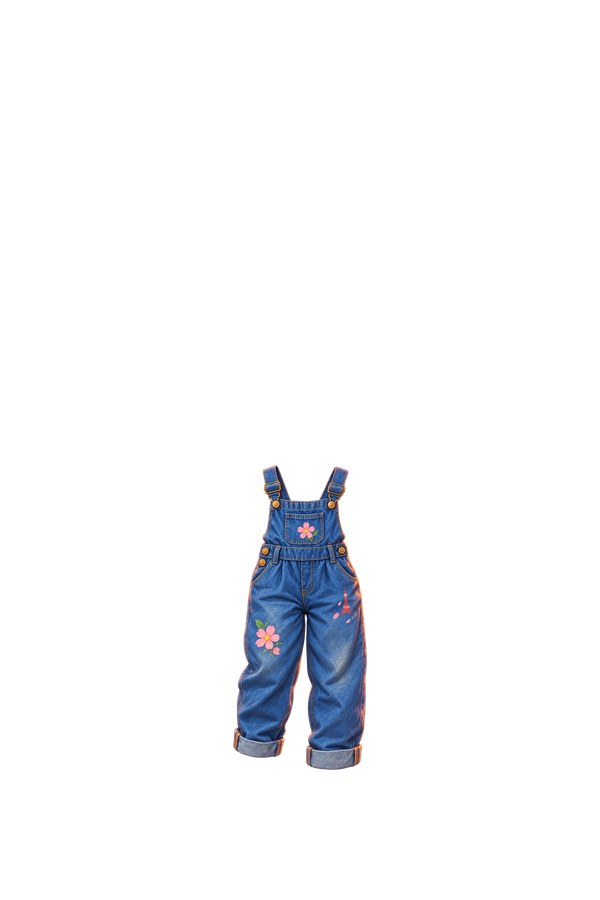
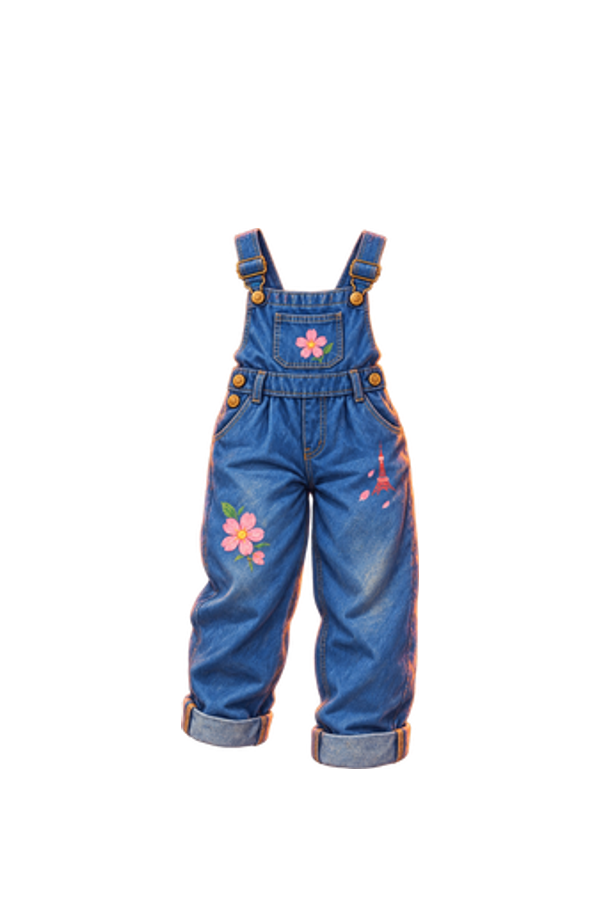
Fix dress/bottom layering, overalls scale, and overalls caption
1. One-piece dresses (purple-button-dress, pink-floral-dress,
   teal-wrap-dress) are now tagged 'covers-bottom'. CatalogDoll skips
   rendering the bottom slot entirely — both the illustrated PNG and
   the SVG fallback — whenever the equipped top has that tag, instead
   of leaving jeans/shoe-cuffs rendering underneath. The bottom pick
   itself is untouched in state, so it's remembered for when the kid
   switches back to a separate top.

2. denim-overalls was generated with slot: 'bottom' (a plain-pants
   box, top=465/height=305), but the art is a full bib overall with
   straps reaching the shoulder — normalizeToClosetCanvas squished the
   whole bib+straps+legs into that short box, so the straps landed at
   rib-cage height instead of the shoulder, visibly poking out from
   under any top. Same bug class as the batch-3 dresses. Rescaled the
   intact art and anchored its top at the shoulder line instead of the
   waist (scripts/fix-overalls-scale.mjs).

3. navy-overalls' art bakes in its own blouse, fully covering
   whatever top is equipped, but the "Now wearing" caption still named
   the hidden top. Tagged it 'includes-top'; the caption now shows the
   bottom's own name whenever the equipped bottom carries that tag, so
   it always matches what's actually visible on the doll.

Changed region(s): [[0.3, 0.2489, 0.72, 0.8711]]

diff --git a/src/LittleJetterApp.tsx b/src/LittleJetterApp.tsx
@@ -272,13 +272,18 @@ const PAINTERLY_BODY_ASSETS: Record<string, string> = {
 };
 
 function CatalogDoll({ destinationId, picks, character, garmentColors }: { destinationId: string; picks: Picks; character: Character; garmentColors: GarmentColors }) {
-  const illustrated = CLOSET_GROUPS.map((group) => ({ group, item: catalogItemFor(destinationId, group, picks[group]) }))
+  const topItem = catalogItemFor(destinationId, 'tops', picks.tops);
+  const coversBottom = topItem?.tags.includes('covers-bottom') ?? false;
+  const illustrated = CLOSET_GROUPS
+    .filter((group) => !(coversBottom && group === 'bottoms'))
+    .map((group) => ({ group, item: catalogItemFor(destinationId, group, picks[group]) }))
     .filter(({ item }) => Boolean(catalogImageFor(item, item ? garmentColors[item.id] : undefined)));
   const headUrl = painterlyHeadUrl(character);
   const bodyUrl = PAINTERLY_BODY_ASSETS[character.skin];
   const hiddenLayers: string[] = (illustrated.map(({ item }) => item?.slot ?? '') as string[])
     .concat(headUrl ? ['face', 'hair'] : [])
-    .concat(bodyUrl ? ['base'] : []);
+    .concat(bodyUrl ? ['base'] : [])
+    .concat(coversBottom ? ['bottom'] : []);
   return <div className="little-catalog-doll" data-template={catalog.template.id}>
     <ClassicDoll picks={picks} character={character} garmentColors={garmentColors} hiddenLayers={hiddenLayers} />
     {bodyUrl && <img className="little-illustrated-layer layer-body" src={bodyUrl} alt="" aria-hidden="true" key={`body-${character.skin}`} />}
@@ -474,6 +479,11 @@ export function LittleJetterApp() {
   const chosen = (group: PickGroup) => {
     const item = catalogItemFor(selected.id, group, picks[group]) ?? wardrobe[group][0];
     return { ...item, note: item.description };
+  };
+  const wornTopName = () => {
+    const bottomItem = catalogItemFor(selected.id, 'bottoms', picks.bottoms);
+    if (bottomItem?.tags.includes('includes-top')) return bottomItem.name;
+    return chosen('tops').name;
   };
   const colorVariants = (group: ClothingGroup) => catalogItemFor(selected.id, group, picks[group])?.variants ?? [];
   const readyToStamp = packed.length >= 4;
@@ -687,7 +697,7 @@ export function LittleJetterApp() {
                     <CatalogDoll key={`${character.hairStyle}-${picks.tops}-${picks.bottoms}-${picks.layers}-${picks.shoes}-${picks.accessories}-${JSON.stringify(garmentColors)}`} destinationId={selected.id} picks={picks} character={character} garmentColors={garmentColors} />
                     <div className="little-dress-sparkles" key={`sparkles-${celebration}`} aria-hidden="true">{Array.from({ length: 10 }, (_, index) => <i key={index} style={{ '--spark': index } as React.CSSProperties}>✦</i>)}</div>
                     {dropActive && <div className="little-drop-message">Drop to dress</div>}
-                    <div className="little-dressed-confirmation" aria-live="polite">Now wearing {chosen('tops').name}</div>
+                    <div className="little-dressed-confirmation" aria-live="polite">Now wearing {wornTopName()}</div>
                   </div>
                   <h3>{selected.city} explorer</h3>
                   <div key={`${picks.layers}-${picks.shoes}`} className={`little-outfit-reaction is-${outfitFeedback.mood}`} role="status"><span aria-hidden="true" /><div><strong>{outfitFeedback.title}</strong><p>{outfitFeedback.message}</p></div></div>
